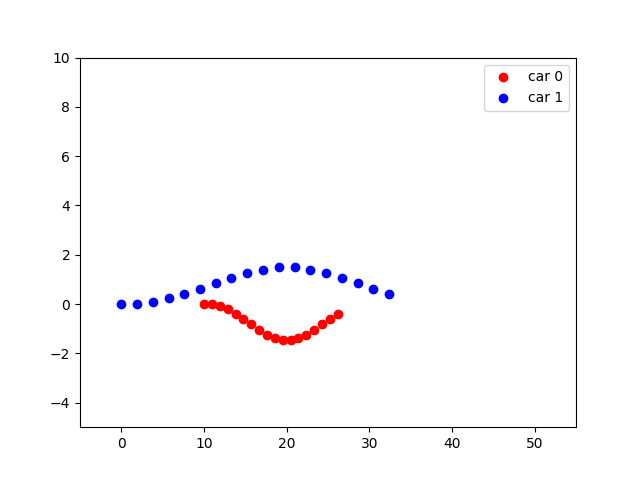
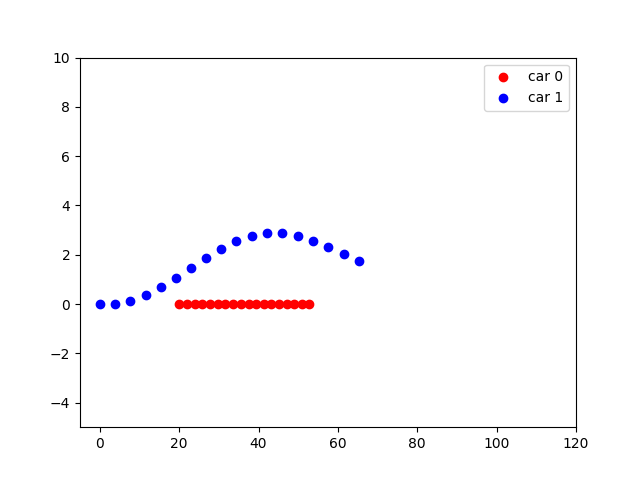
Finished the two car version overtake. One car would overtake the other one from behind.

diff --git a/CFS_planner.py b/CFS_planner.py
@@ -98,7 +98,7 @@ def path_rendering(pathnew, num):
         for j in range(num):
             x[j] = car_path[j][i, 0]
             y[j] = car_path[j][i, 1]
-            plt.xlim(-5, 55)
+            plt.xlim(-5, 120)
             plt.ylim(-5, 10)
             plt.scatter(x[j], y[j], marker = 'o', color = COLOR[j])
             plot_legend.append('car {}'.format(j))
@@ -150,6 +150,11 @@ def Plan_trajectory(MAX_ITER, multi_path, mini_distance):
 
                     cons = A[0, 0:2].reshape(1,2)@x[dim*j:dim*(j+1)][2*l:2*(l+1)] + A[0, 2:4].reshape(1,2)@x[dim*j:dim*(j+1)][2*m:2*(m+1)] <= b
                     constraints.append(cons)
+            
+            # Define lane keeping constraint for the car being overtaked
+            lane_keeping_id = 0
+            cons = x[dim*j + 2*lane_keeping_id+1] == x_ref_1[2*lane_keeping_id+1]
+            constraints.append(cons)
             
             # Define priority constraint
             if j < nstep-1:

diff --git a/CFS_problem.py b/CFS_problem.py
@@ -13,12 +13,12 @@ def define_path():
     '''
     multi_path = []
     # Define path 0
-    path_seg_0 = np.array([[10, 0], [30, 0]])
-    path_0 = get_path(path_seg_0, 1)
+    path_seg_0 = np.array([[20, 0], [70, 0]])
+    path_0 = get_path(path_seg_0, 2)
     multi_path.append(path_0)
     # Define path 1
-    path_seg_1 = np.array([[0, 0.01], [40, 0.01]])
-    path_1 = get_path(path_seg_1, 2)
+    path_seg_1 = np.array([[0, 0.01], [100, 0.01]])
+    path_1 = get_path(path_seg_1, 4)
     multi_path.append(path_1)
 
     # # Define path 2
